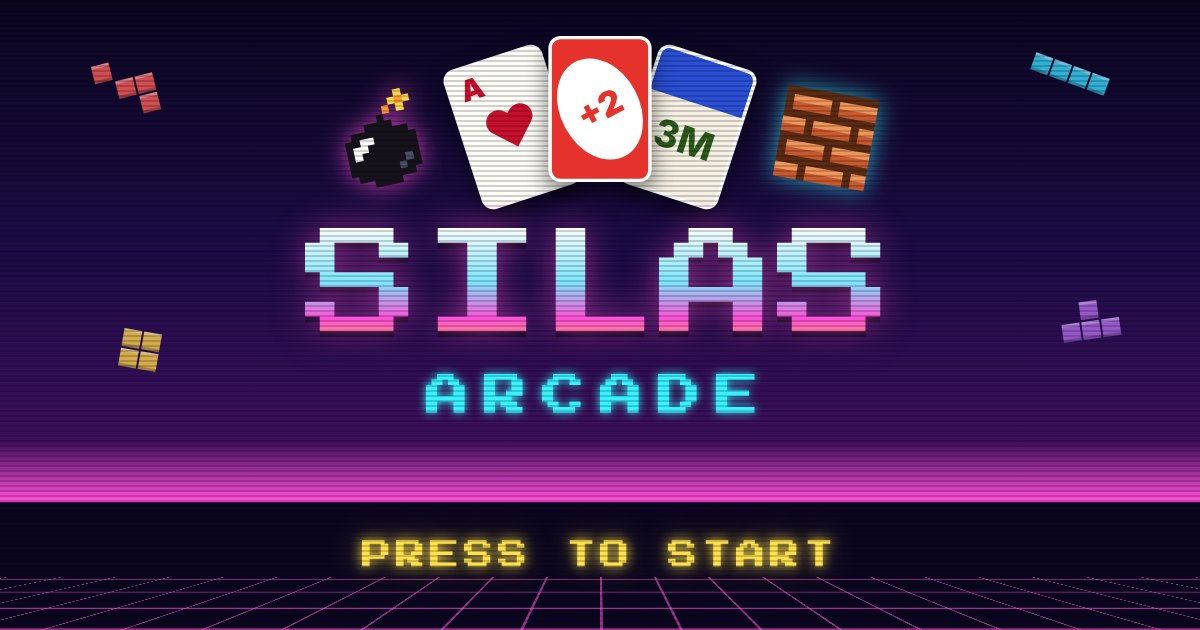
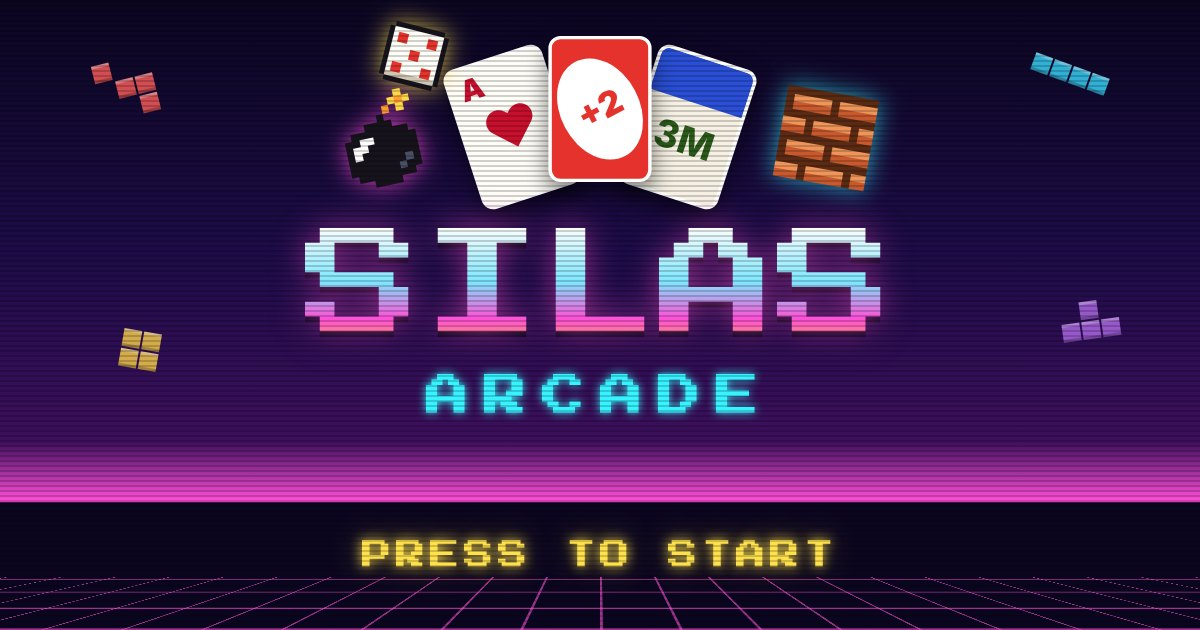
Link preview: add the Knobel-Kiez die, bump image version
The preview image gets the pixel die from the logo. The image address
now carries ?v=2 (kept by the server and the Pages build) so messengers
that cache previews per image URL fetch the new one.

Claude-Session: https://claude.ai/code/session_01Qzf8XAt9msDrEgR9dVcp2v

Changed region(s): [[0.3083, 0.0, 0.4008, 0.181]]

diff --git a/public/index.html b/public/index.html
@@ -9,18 +9,19 @@
   <meta name="apple-mobile-web-app-status-bar-style" content="black-translucent">
   <title>Silas Arcade</title>
   <!-- Link preview (messengers, social media). "preview.jpg" is turned into a
-       full address by the server and by the GitHub Pages build. -->
+       full address by the server and by the GitHub Pages build. Bump ?v= when the
+       image changes so messengers fetch it again. -->
   <meta name="description" content="Games with friends, right in the browser. No account, just share the link.">
   <meta property="og:type" content="website">
   <meta property="og:site_name" content="SILAS ARCADE">
   <meta property="og:title" content="SILAS ARCADE">
   <meta property="og:description" content="Games with friends, right in the browser. No account, just share the link.">
-  <meta property="og:image" content="preview.jpg">
+  <meta property="og:image" content="preview.jpg?v=2">
   <meta property="og:image:width" content="1200">
   <meta property="og:image:height" content="630">
   <meta property="og:image:alt" content="SILAS ARCADE – press to start">
   <meta name="twitter:card" content="summary_large_image">
-  <meta name="twitter:image" content="preview.jpg">
+  <meta name="twitter:image" content="preview.jpg?v=2">
   <link rel="manifest" href="manifest.webmanifest">
   <link rel="icon" href="icon.svg" type="image/svg+xml">
   <link rel="stylesheet" href="css/style.css">

diff --git a/server/server.js b/server/server.js
@@ -59,7 +59,8 @@ function absolutePreview(req, html) {
   const host = String(req.headers['x-forwarded-host'] || req.headers.host || '').split(',')[0].trim();
   if (!/^[A-Za-z0-9.-]+(:\d+)?$/.test(host)) return html;
   const proto = String(req.headers['x-forwarded-proto'] || '').split(',')[0].trim() === 'https' || req.socket.encrypted ? 'https' : 'http';
-  return html.replace(/content="preview\.jpg"/g, `content="${proto}://${host}/preview.jpg"`);
+  // Keeps the ?v= suffix: bumping it makes messengers fetch a changed image.
+  return html.replace(/content="preview\.jpg(\?[^"]*)?"/g, (_, q = '') => `content="${proto}://${host}/preview.jpg${q}"`);
 }
 
 const PORT = Number(process.env.PORT) || 8080;

diff --git a/test/server.test.js b/test/server.test.js
@@ -128,7 +128,7 @@ test('the game page gets an absolute link-preview image address', async () => {
   try {
     const res = await fetch(`${srv.base}/?room=ABCD`, { headers: { 'X-Forwarded-Host': 'play.example.com', 'X-Forwarded-Proto': 'https' } });
     const html = await res.text();
-    assert.match(html, /property="og:image" content="https:\/\/play\.example\.com\/preview\.jpg"/);
+    assert.match(html, /property="og:image" content="https:\/\/play\.example\.com\/preview\.jpg\?v=\d+"/);
     const img = await fetch(`${srv.base}/preview.jpg`);
     assert.equal(img.headers.get('content-type'), 'image/jpeg');
   } finally {
